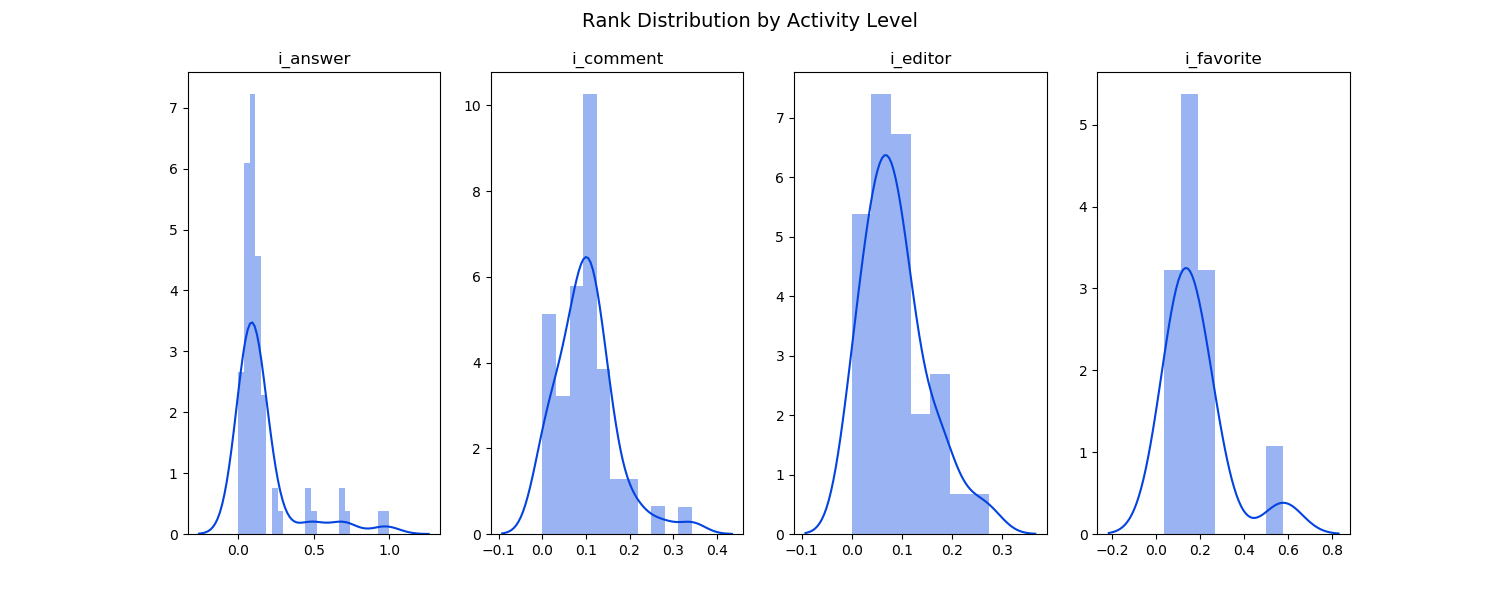
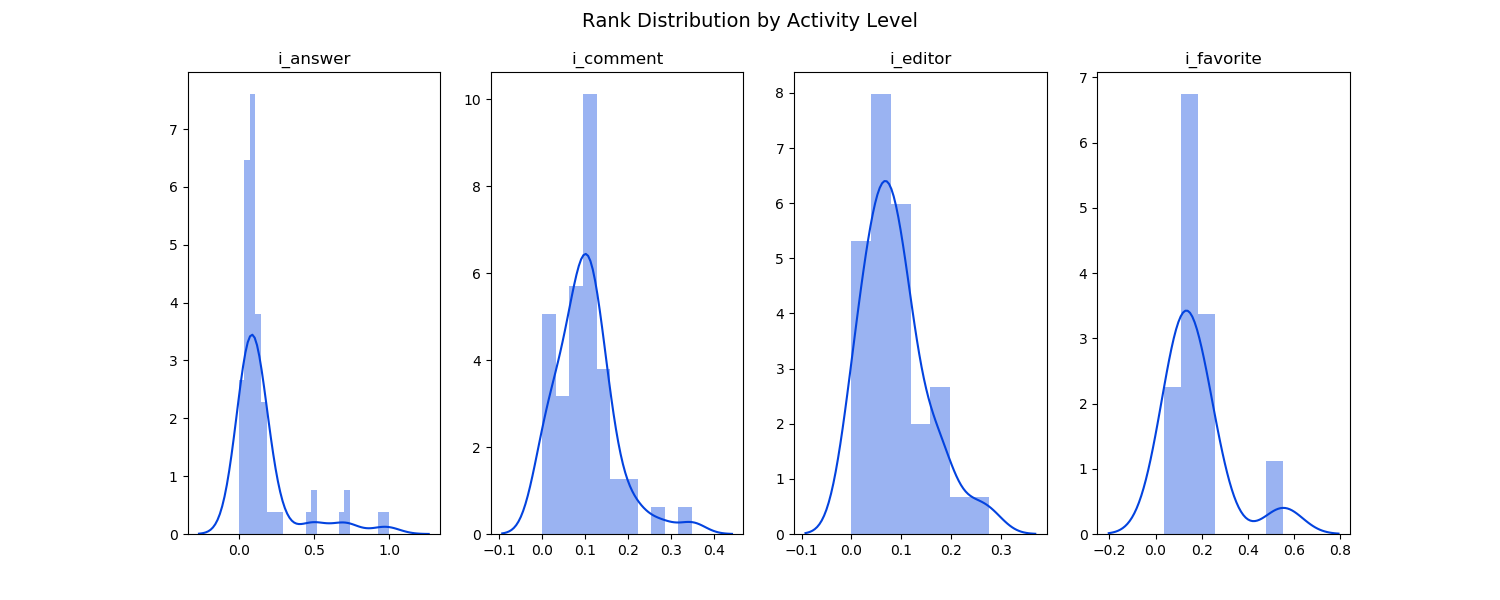
ROC curve finished

diff --git a/source/engine/engine.py b/source/engine/engine.py
@@ -105,6 +105,13 @@ class Residuals:
                                            for t, t_error in zip(summary_marker, summary_threshold)}
         return threshold_summary
 
+    def build_label_matrix(self, matrix_init):
+        # single classification for now (treat any kind of user activity as the same activity)
+        for question_number, activities in self.raw_residuals_per_question.items():
+            for activity, indices in activities.items():
+                for index in indices:
+                    matrix_init[question_number, index] = 1
+
     @staticmethod
     def pprint_dict(d):
         return json.dumps(d, indent=4)
@@ -115,8 +122,8 @@ class Engine:
     t1 = time.time()
 
     # load questions and all user activities
-    X = pd.read_csv(BASE_PATH + 'X_train.csv').head(600)
-    y = pd.read_csv(BASE_PATH + 'y_train.csv').head(600)
+    X = pd.read_csv(BASE_PATH + 'X_train.csv').head(33)
+    y = pd.read_csv(BASE_PATH + 'y_train.csv').head(33)
     X['CreationDate'] = pd.to_datetime(X['CreationDate'], format="%Y-%m-%dT%H:%M:%S")
 
     # load engineered features
@@ -140,6 +147,8 @@ class Engine:
     def __init__(self):
         self.residuals = Residuals(Engine.X, Engine.y)
         self.recommender_user_matrix = np.zeros((len(Engine.X), len(Engine.unique_users_list)))
+        self.recommender_score_matrix = np.zeros((len(Engine.X), len(Engine.unique_users_list)))
+        self.recommender_label_matrix = np.zeros((len(Engine.X), len(Engine.unique_users_list)))
 
     def rank_all_questions(self, w, opt_activity, log_disabled=False, save_output=False):
         if save_output and not os.path.exists('feature_matrices'):
@@ -162,11 +171,16 @@ class Engine:
         for index, row in bar(Engine.X.iterrows()):
             question_score_matrix = Engine._rank_question(row, copy(matrix_init), w, opt_activity)
             self.residuals.compute_and_store_residuals(question_score_matrix, index)
-            # store the user matrix results as part of another visualization
+            # store the user matrix and score results for entropy visualization and roc curve
             self.recommender_user_matrix[index, :] = question_score_matrix[:, 0]
+            self.recommender_score_matrix[index, :] = question_score_matrix[:, -1]
+
             if save_output:
                 np.savetxt(f'./feature_matrices/q_{index}_feature_matrix.csv', question_score_matrix, delimiter=',')
         t2 = time.time()
+
+        # finally add labels for residuals for roc curve
+        self.residuals.build_label_matrix(self.recommender_label_matrix)
 
         logging.info(f'Ranking all questions computation finished in {(t2 - t1)/60} minutes.\n'
                      f'With an average time of {(t2 - t1)/len(Engine.X)} seconds per question.')

diff --git a/source/engine/test.py b/source/engine/test.py
@@ -38,6 +38,10 @@ class TestPlots:
         ResidualPlots.plot_variance_per_rank(self.engine.recommender_user_matrix,
                                              'TEST_entropy_per_rank.png')
 
+    def ROC_curve_all_activities(self):
+        score_matrix, label_matrix = self.engine.recommender_score_matrix, self.engine.recommender_label_matrix
+        ResidualPlots.plot_roc_curve_for_all_activities(score_matrix, label_matrix, 'TEST_ROC_curve_all_activities.png')
+
 
 class TestWeightVector:
     def __init__(self, n_features):
@@ -60,6 +64,7 @@ class Test:
         pt.residual_matrix()
         pt.rank_distributions()
         pt.error_by_threshold()
+        pt.ROC_curve_all_activities()
         pt.variance_per_rank()
 
     @staticmethod
@@ -109,8 +114,8 @@ Post Features and Residual Analysis:
 
 if __name__ == '__main__':
     set_up_log_files('run.log')
-    # Test.plot_tests(6)
-    Test.save_residual_files(6)
+    Test.plot_tests(6)
+    # Test.save_residual_files(6)
 
     # t = TestWeightVector(6)
     # t.build_error_matrix_by_cartisian_weight((-500, 1000), 500) # 52 hours

diff --git a/source/engine/visuals.py b/source/engine/visuals.py
@@ -5,6 +5,7 @@ import pandas as pd
 import numpy as np
 import logging
 from scipy import stats
+from sklearn.metrics import roc_curve, auc
 
 
 # https://stats.stackexchange.com/questions/51248/how-can-i-find-the-standard-deviation-in-categorical-distribution
@@ -120,3 +121,20 @@ class ResidualPlots:
         plt.savefig(save_path)
         plt.show()
 
+    @staticmethod
+    def plot_roc_curve_for_all_activities(score_matrix, label_matrix, save_path):
+        fpr, tpr, _ = roc_curve(np.asarray(label_matrix).ravel(), np.asarray(score_matrix).ravel())
+        roc_auc = auc(fpr, tpr)
+
+        lw = 2
+        plt.plot(fpr, tpr, color='darkorange',
+                 lw=lw, label='ROC curve (area = %0.2f)' % roc_auc)
+        plt.plot([0, 1], [0, 1], color='navy', lw=lw, linestyle='--')
+        plt.xlim([0.0, 1.0])
+        plt.ylim([0.0, 1.05])
+        plt.xlabel('False Positive Rate')
+        plt.ylabel('True Positive Rate')
+        plt.title('Receiver operating characteristic example')
+        plt.legend(loc="lower right")
+        plt.savefig(save_path)
+        plt.show()
